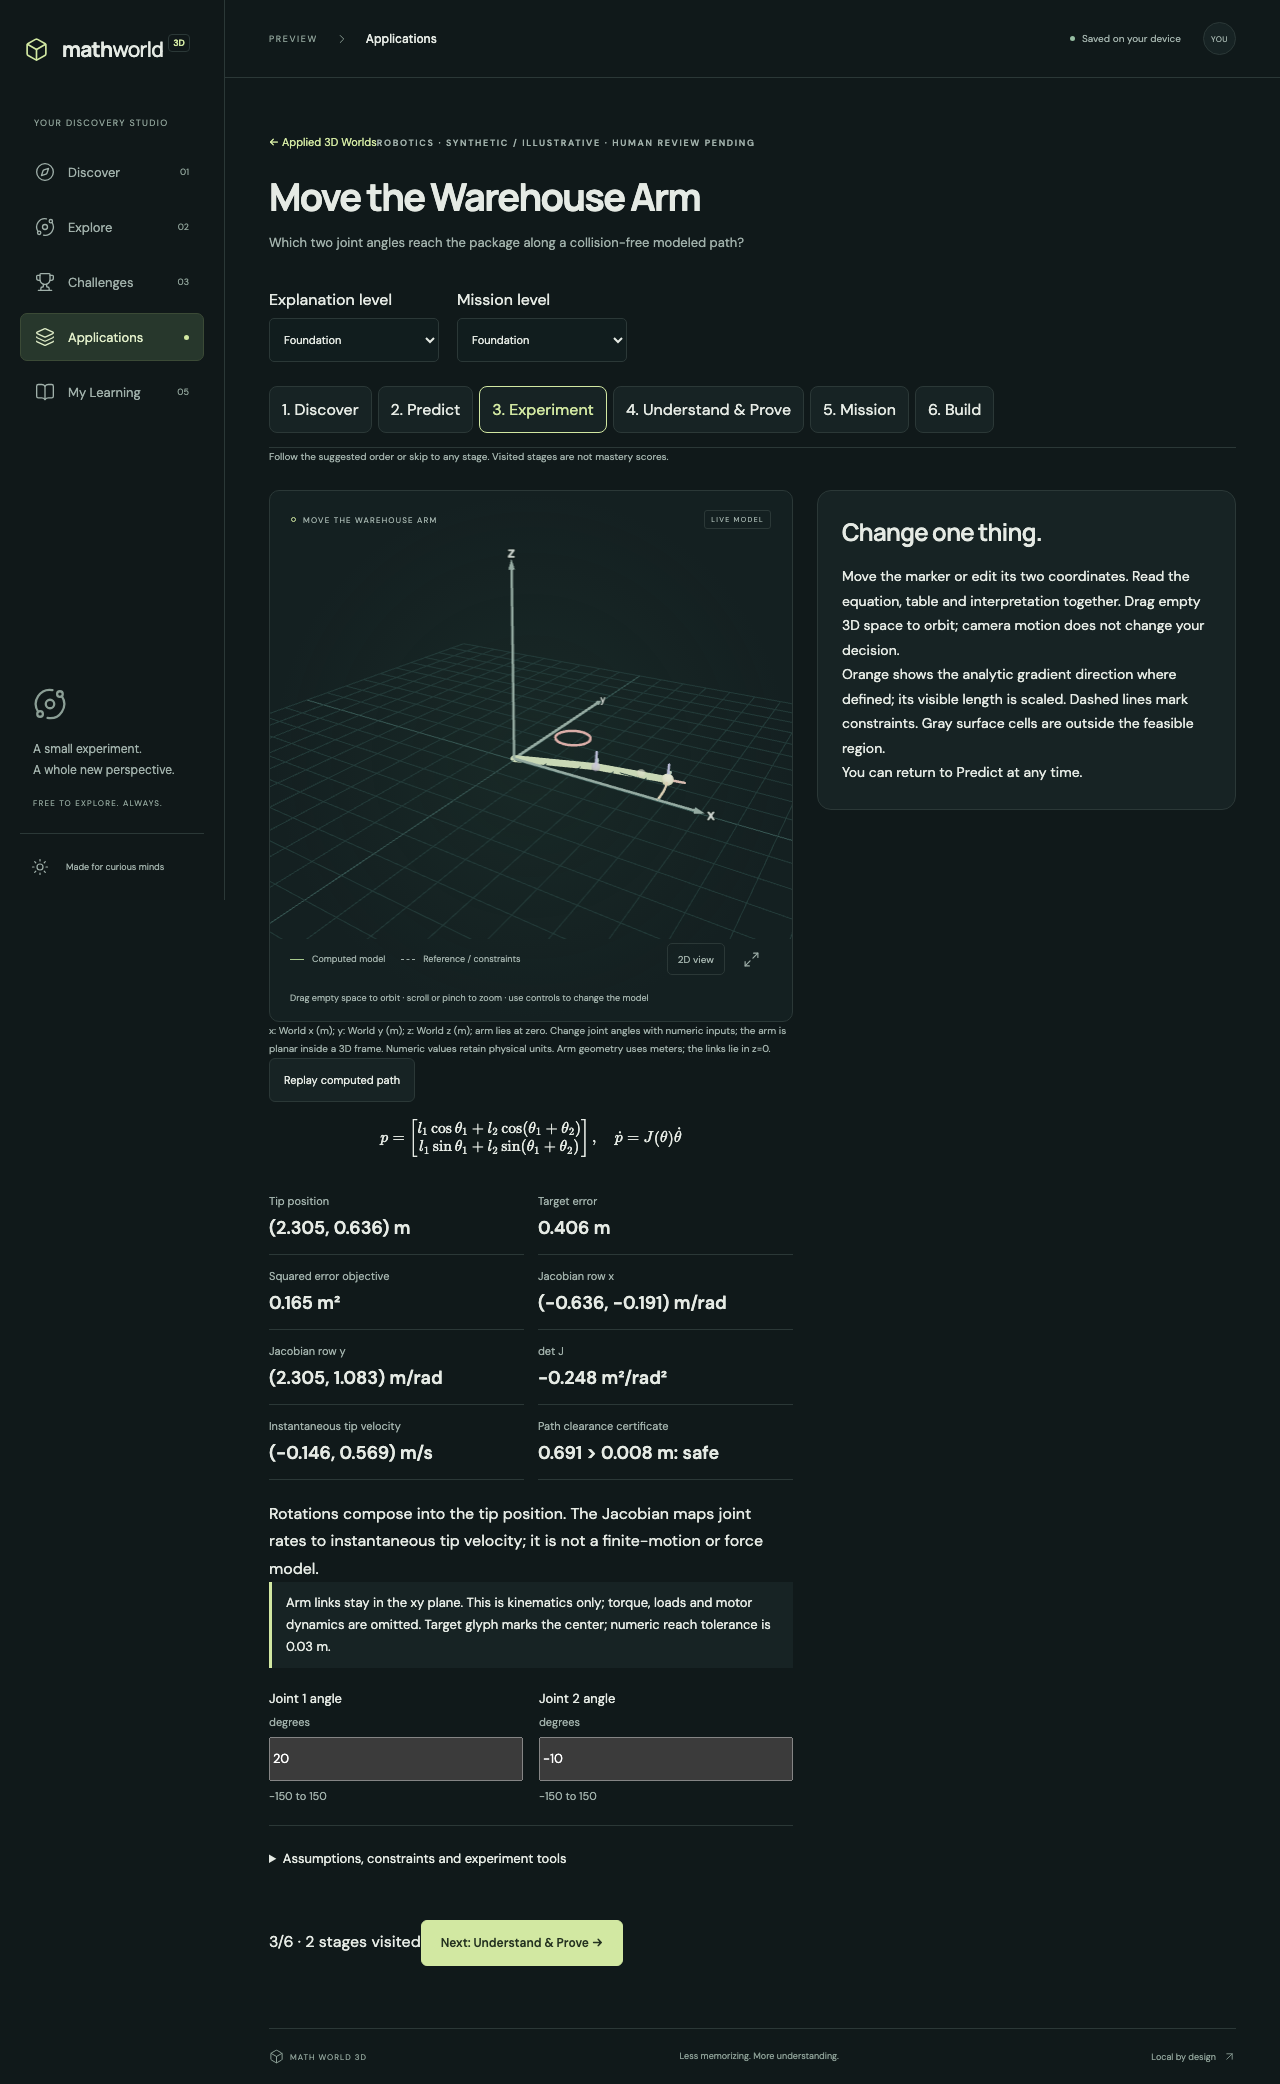
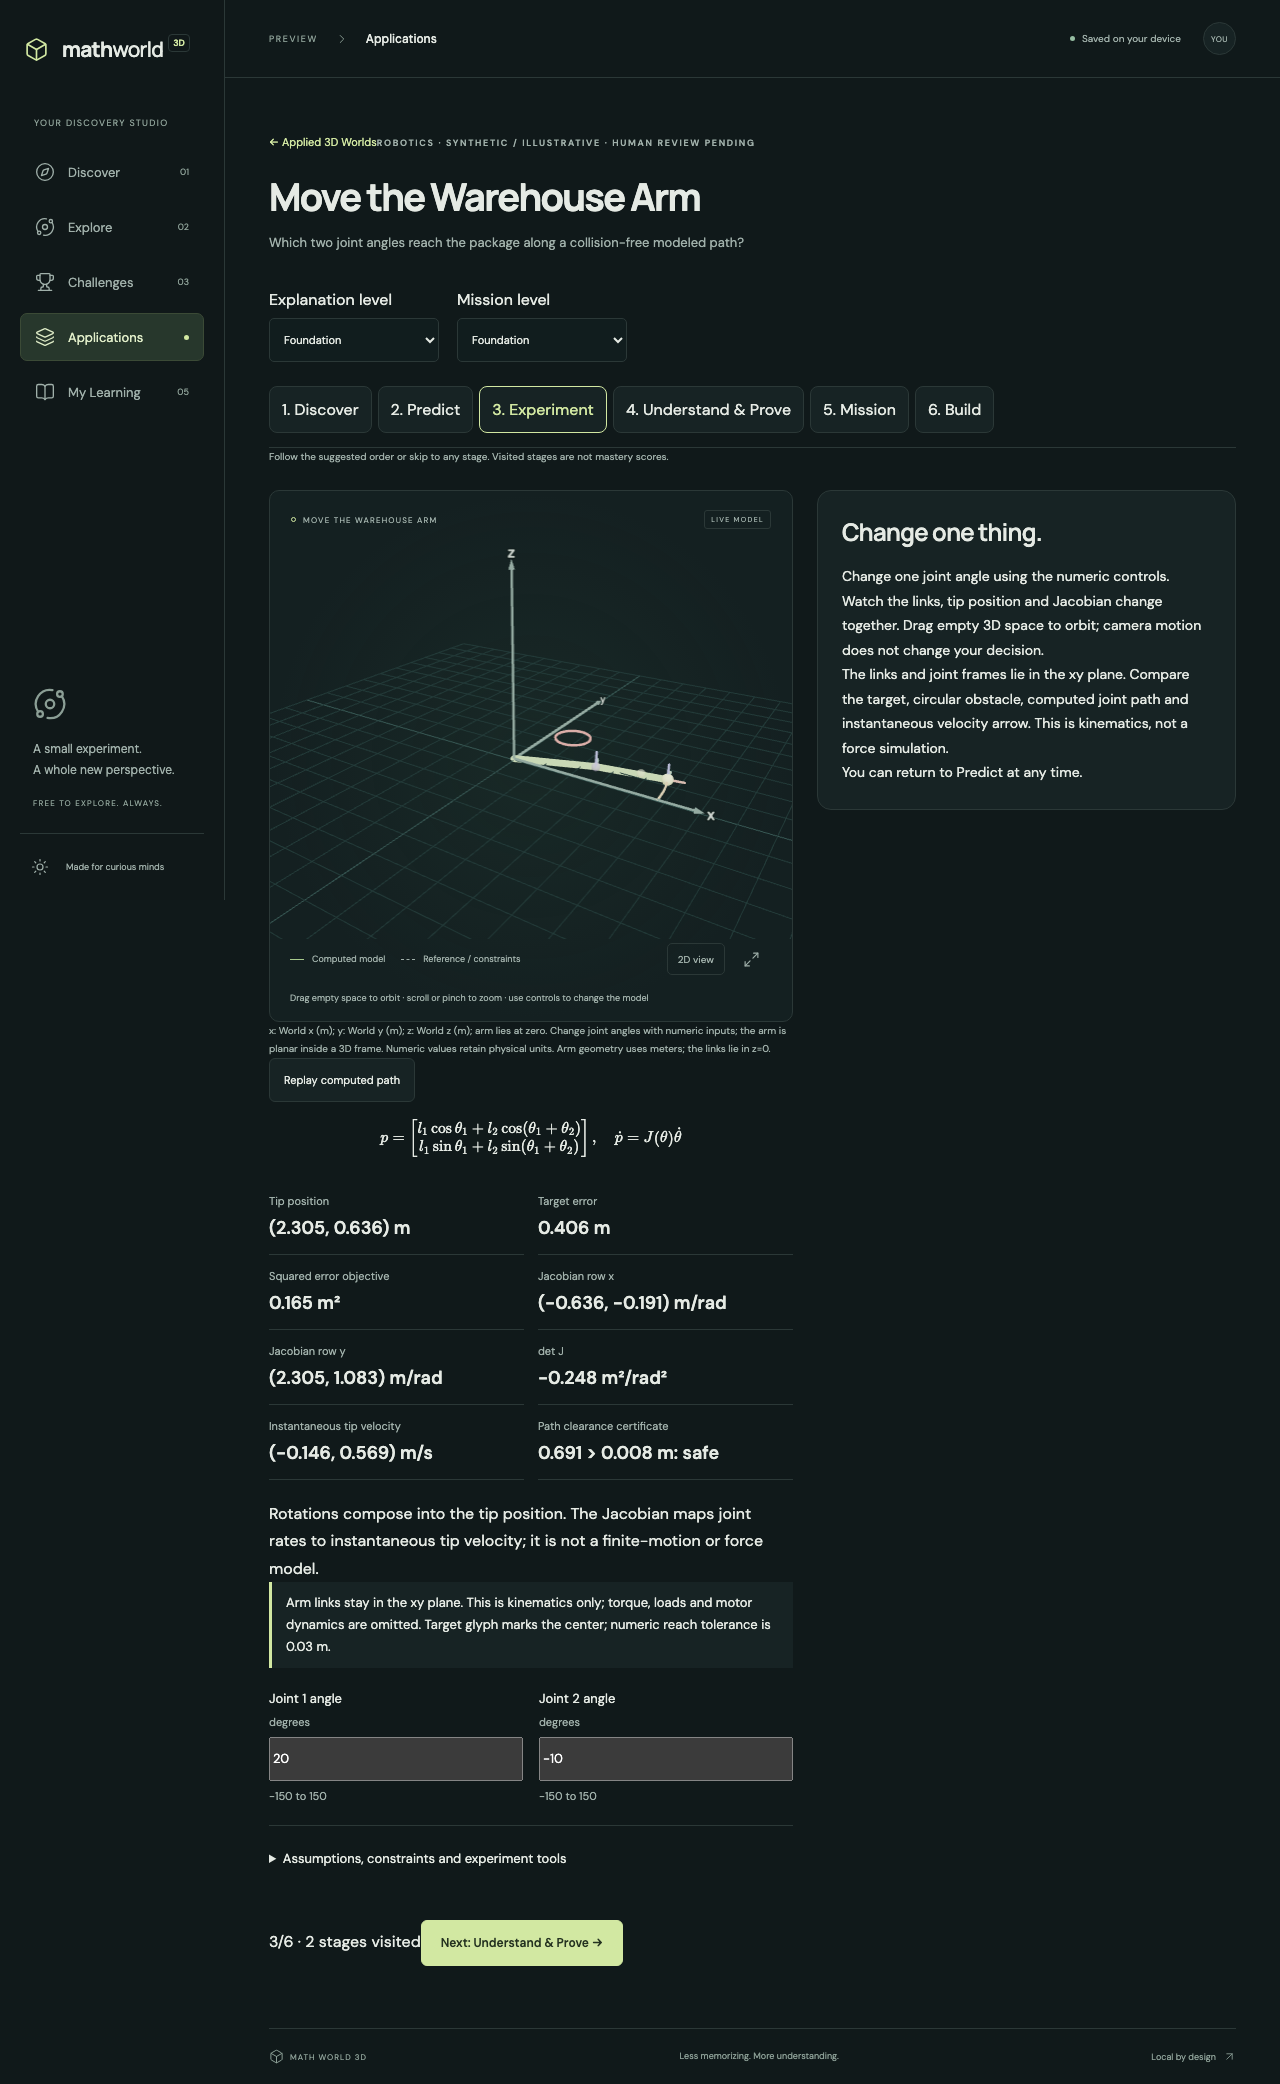
Explain arm and feature-space controls in their actual coordinate frames

Changed region(s): [[0.6562, 0.2495, 0.9375, 0.3743]]

diff --git a/src/applied/WorldStage.tsx b/src/applied/WorldStage.tsx
@@ -420,14 +420,20 @@ export default function WorldStage({
             <>
               <h2>Change one thing.</h2>
               <p>
-                Move the marker or edit its two coordinates. Read the equation,
-                table and interpretation together. Drag empty 3D space to orbit;
-                camera motion does not change your decision.
+                {d.id === "robotics"
+                  ? "Change one joint angle using the numeric controls. Watch the links, tip position and Jacobian change together."
+                  : d.id === "ml" && p.view === 1
+                    ? "Change one model weight using the numeric controls. Watch the prediction plane and residuals change; the observed feature coordinates stay fixed."
+                    : "Move the marker or edit its two coordinates. Read the equation, table and interpretation together."}{" "}
+                Drag empty 3D space to orbit; camera motion does not change your
+                decision.
               </p>
               <p>
-                Orange shows the analytic gradient direction where defined; its
-                visible length is scaled. Dashed lines mark constraints. Gray
-                surface cells are outside the feasible region.
+                {d.id === "robotics"
+                  ? "The links and joint frames lie in the xy plane. Compare the target, circular obstacle, computed joint path and instantaneous velocity arrow. This is kinematics, not a force simulation."
+                  : d.id === "ml" && p.view === 1
+                    ? "Dots mark training observations; vertical residual segments compare predictions with targets. This feature-space plane is different from the loss surface over weights."
+                    : "Orange shows the analytic gradient direction where defined; its visible length is scaled. Dashed lines mark constraints. Gray surface cells are outside the feasible region."}
               </p>
               {d.step && (
                 <button

diff --git a/docs/applied-worlds/TEST_AND_ACCESSIBILITY.md b/docs/applied-worlds/TEST_AND_ACCESSIBILITY.md
@@ -17,13 +17,13 @@ October 26, 2026. Local macOS, Node 24, locked packages, Playwright Chromium/Fir
 
 The new flows cover each world’s controls, examples/proof, mission objective, saved state and portable project. Every world also runs a forced-no-WebGL phone flow through all six stages in both themes with native keyboard input, axe, JSON export/import and reload. No serious/critical axe violations were found on tested stages. Additional flows check gallery domain/level filters, unchanged five destinations, Marketing worksheet persistence, ML freeze/reload, robot replay, and Sales context loss with continued numeric assessment. Existing keyboard-only, reduced-motion, legacy progress, backup/restore and Python-kit journeys remain green. Pointer/touch emulation is not a physical-device test.
 
-During development, tests exposed and corrected a Sales piece-boundary gradient error, hand-calculation arithmetic, and a browser reload race in ML freeze persistence. Freeze now writes before completion appears and validates inputs/seed/loss on import. A shared scene legend was corrected to describe computed models instead of matrix-specific original/transformed labels. No tests or CI gates were deleted/weakened. The Three.js dependency emits an existing `Clock` deprecation warning; no new page exception was found.
+During development, tests exposed and corrected a Sales piece-boundary gradient error, hand-calculation arithmetic, and a browser reload race in ML freeze persistence. Freeze now writes before completion appears and validates inputs/seed/loss on import. The shared legend describes computed models instead of matrix-specific original/transformed labels. Final browser visual review also corrected arm-specific joint instructions and ML feature-space instructions; both were verified against the rebuilt scenes. An actual Sales sphere pointer drag changed the numeric decision coordinates. No tests or CI gates were deleted/weakened. The Three.js dependency emits an existing `Clock` deprecation warning; no new page exception was found.
 
 ## Screenshots and performance
 
-Actual before captures: [desktop](screenshots/before-desktop.png), [phone](screenshots/before-mobile.png). After: [Sales desktop](screenshots/after-sales-desktop.png), [Sales phone](screenshots/after-sales-phone.png), [Marketing desktop](screenshots/after-marketing-desktop.png), [Marketing phone](screenshots/after-marketing-phone.png), [ML](screenshots/after-ml-desktop.png), [robot arm](screenshots/after-robotics-desktop.png), [Finance](screenshots/after-finance-desktop.png), [GIS](screenshots/after-gis-desktop.png). Phone captures explicitly exercise SVG fallback; desktop captures use actual 3D geometry.
+Actual before captures: [desktop](screenshots/before-desktop.png), [phone](screenshots/before-mobile.png). After: [Sales desktop](screenshots/after-sales-desktop.png), [Sales phone](screenshots/after-sales-phone.png), [Marketing desktop](screenshots/after-marketing-desktop.png), [Marketing phone](screenshots/after-marketing-phone.png), [ML loss](screenshots/after-ml-desktop.png), [ML feature space](screenshots/after-ml-feature-desktop.png), [robot arm](screenshots/after-robotics-desktop.png), [Finance](screenshots/after-finance-desktop.png), [GIS](screenshots/after-gis-desktop.png). Phone captures explicitly exercise SVG fallback; desktop captures use actual 3D geometry.
 
-The lazy ThreeStage chunk changes from 953.78/254.15 kB (minified/gzip) to 955.61/254.67 kB: +1.83/+0.52 kB. The new shared WorldStage is about 21.5/7.6 kB; each world model loads separately. Existing Three.js/React/equation vendors remain split. No runtime dependency was added. Geometry buffers are memoized/disposed; surfaces use 625 samples; animation is explicit, bounded and honors reduced motion.
+The lazy ThreeStage chunk changes from 953.78/254.15 kB (minified/gzip) to 955.61/254.67 kB: +1.83/+0.52 kB. The new shared WorldStage is about 22.2/7.9 kB; each world model loads separately. Existing Three.js/React/equation vendors remain split. No runtime dependency was added. Geometry buffers are memoized/disposed; surfaces use 625 samples; animation is explicit, bounded and honors reduced motion.
 
 A single headless Chromium production probe (with other QA running) measured navigation-to-heading 410–1221 ms across worlds; input-to-changed-canvas screenshot 150–459 ms including automation/capture overhead; reported JS heap snapshots approximately 14.3–16.1 MB. These are local observations, not independent device benchmarks, frame-rate measurements or a memory-leak certification. Representative physical mobile FPS/battery is NOT RUN; no 60 FPS or offline guarantee is made.
 
